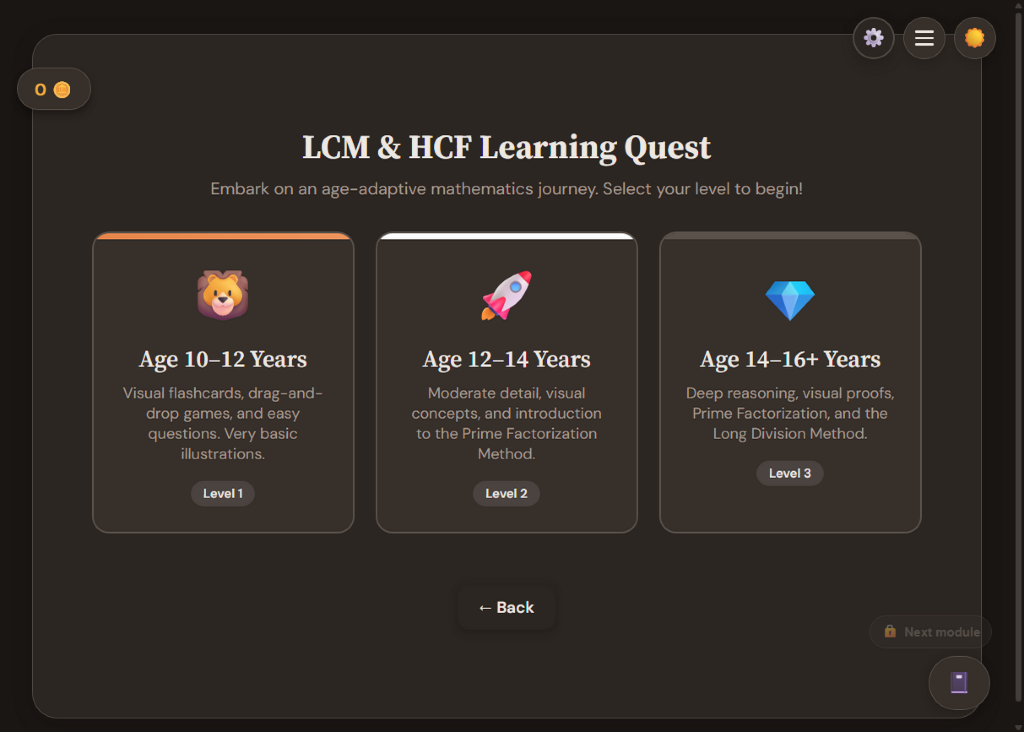
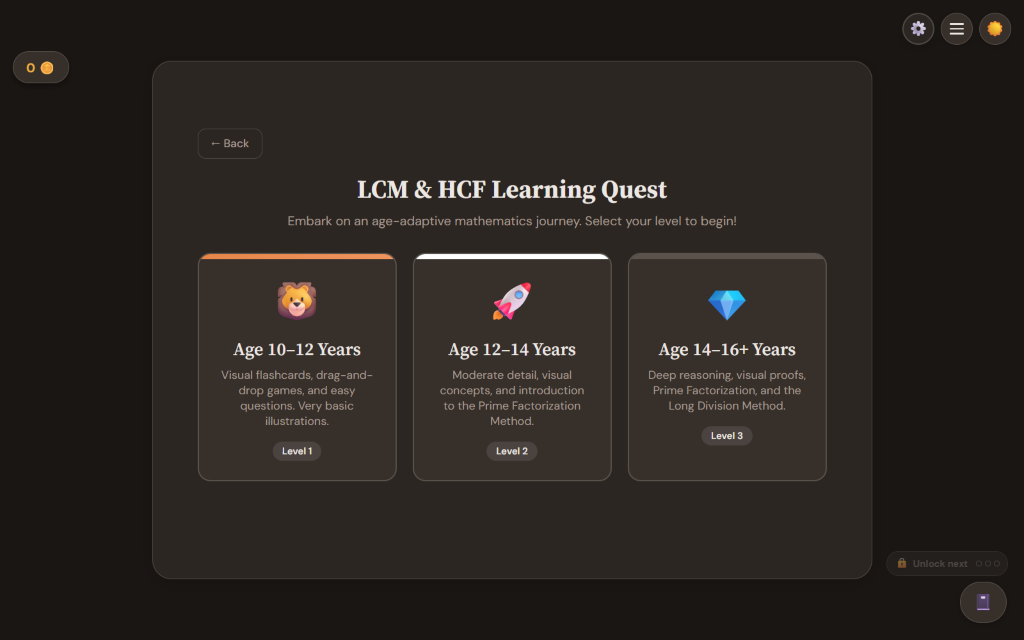
fix(client): standardize back button position to top-left in LCM & HCF and Vachana

diff --git a/client/src/LcmHcfApp.jsx b/client/src/LcmHcfApp.jsx
@@ -1758,57 +1758,47 @@ export default function InteractiveLcmHcfApp({ onBack }) {
   // Step 0: Welcome and Age Group Selection
   const renderAgeSelect = () => {
     return (
-      <div style={{ textAlign: 'center' }}>
-        <h2 style={{ fontFamily: 'var(--font-display)', fontSize: '2rem', marginBottom: '8px' }}>
-          LCM & HCF Learning Quest
-        </h2>
-        <p style={{ color: 'var(--clr-text-soft)', marginBottom: '24px' }}>
-          Embark on an age-adaptive mathematics journey. Select your level to begin!
-        </p>
+      <div>
+        <div style={{ display: 'flex', alignItems: 'center', marginBottom: '16px' }}>
+          <button className="back-button" onClick={onBack}>← Back</button>
+        </div>
+        <div style={{ textAlign: 'center' }}>
+          <h2 style={{ fontFamily: 'var(--font-display)', fontSize: '2rem', marginBottom: '8px' }}>
+            LCM & HCF Learning Quest
+          </h2>
+          <p style={{ color: 'var(--clr-text-soft)', marginBottom: '24px' }}>
+            Embark on an age-adaptive mathematics journey. Select your level to begin!
+          </p>
 
-        <div className="age-select-grid">
-          <div className="age-card level-1" onClick={() => { setLevel(1); setCurrentStep(1); }}>
-            <span className="age-emoji">🦁</span>
-            <span className="age-title">Age 10–12 Years</span>
-            <p className="age-desc">
-              Visual flashcards, drag-and-drop games, and easy questions. Very basic illustrations.
-            </p>
-            <span className="age-badge">Level 1</span>
-          </div>
+          <div className="age-select-grid">
+            <div className="age-card level-1" onClick={() => { setLevel(1); setCurrentStep(1); }}>
+              <span className="age-emoji">🦁</span>
+              <span className="age-title">Age 10–12 Years</span>
+              <p className="age-desc">
+                Visual flashcards, drag-and-drop games, and easy questions. Very basic illustrations.
+              </p>
+              <span className="age-badge">Level 1</span>
+            </div>
 
-          <div className="age-card level-2" onClick={() => { setLevel(2); setCurrentStep(1); }}>
-            <span className="age-emoji">🚀</span>
-            <span className="age-title">Age 12–14 Years</span>
-            <p className="age-desc">
-              Moderate detail, visual concepts, and introduction to the Prime Factorization Method.
-            </p>
-            <span className="age-badge">Level 2</span>
-          </div>
+            <div className="age-card level-2" onClick={() => { setLevel(2); setCurrentStep(1); }}>
+              <span className="age-emoji">🚀</span>
+              <span className="age-title">Age 12–14 Years</span>
+              <p className="age-desc">
+                Moderate detail, visual concepts, and introduction to the Prime Factorization Method.
+              </p>
+              <span className="age-badge">Level 2</span>
+            </div>
 
-          <div className="age-card level-3" onClick={() => { setLevel(3); setCurrentStep(1); }}>
-            <span className="age-emoji">💎</span>
-            <span className="age-title">Age 14–16+ Years</span>
-            <p className="age-desc">
-              Deep reasoning, visual proofs, Prime Factorization, and the Long Division Method.
-            </p>
-            <span className="age-badge">Level 3</span>
+            <div className="age-card level-3" onClick={() => { setLevel(3); setCurrentStep(1); }}>
+              <span className="age-emoji">💎</span>
+              <span className="age-title">Age 14–16+ Years</span>
+              <p className="age-desc">
+                Deep reasoning, visual proofs, Prime Factorization, and the Long Division Method.
+              </p>
+              <span className="age-badge">Level 3</span>
+            </div>
           </div>
         </div>
-
-        <button 
-          onClick={onBack}
-          style={{ 
-            background: 'transparent', 
-            borderColor: 'var(--clr-border)', 
-            color: 'var(--clr-text)', 
-            padding: '10px 20px', 
-            borderRadius: 'var(--radius-sm)',
-            cursor: 'pointer',
-            marginTop: '20px'
-          }}
-        >
-          ← Back
-        </button>
       </div>
     );
   };

diff --git a/client/src/vachana/index.jsx b/client/src/vachana/index.jsx
@@ -262,15 +262,15 @@ export default function Vachana({ onBack }) {
 
       {/* Vachana Header — shown on dashboard */}
       {activeTab === null && (
-        <div style={{ display: 'flex', justifyContent: 'space-between', alignItems: 'center', marginBottom: '20px', borderBottom: '1px solid var(--clr-border)', paddingBottom: '12px' }}>
+        <div style={{ marginBottom: '20px', borderBottom: '1px solid var(--clr-border)', paddingBottom: '12px' }}>
+          <div style={{ display: 'flex', alignItems: 'center', marginBottom: '16px' }}>
+            <button className="back-button" onClick={onBack}>← Back</button>
+          </div>
           <div>
             <h1 style={{ margin: 0, fontSize: '1.8rem', display: 'flex', alignItems: 'center', gap: '8px' }}>
               {VachanaIcons.header} Vachana Literary Lab
             </h1>
             <p className="subtitle" style={{ margin: '4px 0 0 0' }}>Learn to parse, translate, and communicate in the language of mathematics</p>
-          </div>
-          <div style={{ display: 'flex', alignItems: 'center', gap: '12px' }}>
-            <button className="back-button" onClick={onBack}>← Back</button>
           </div>
         </div>
       )}
